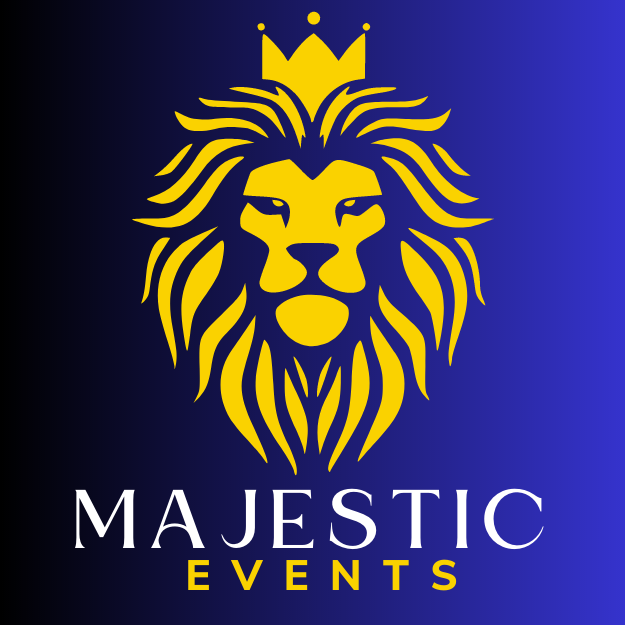
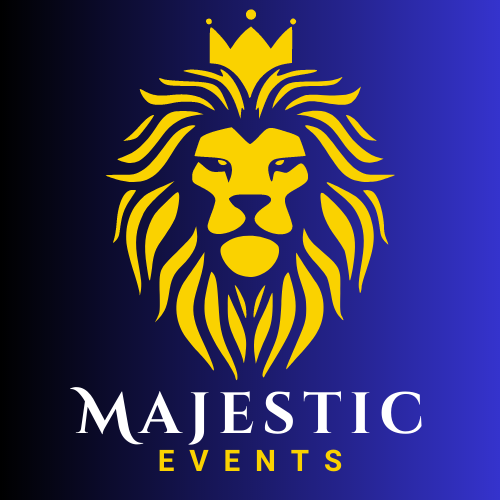
style changes

diff --git a/app.html b/app.html
@@ -17,10 +17,20 @@
     <link rel="stylesheet" href="https://cdn.jsdelivr.net/gh/devicons/devicon@v2.15.1/devicon.min.css">
 
     <!--Tab Favicon  -->
-    <link rel="shortcut icon" href="img/Willicons/logoBlu.png" type="image/x-icon" />
+    <link rel="shortcut icon" href="img/Willicons/logo golden.png" type="image/x-icon" />
+
+    <!-- Prism CSS -->
+    <link rel="stylesheet" href="/css/prism.css" />
 
     <!-- Custom fontawesome css -->
     <script src="https://kit.fontawesome.com/5db21ba9c6.js" crossorigin="anonymous"></script>
+
+    <!-- Google Fonts -->
+    <link rel="preconnect" href="https://fonts.googleapis.com">
+    <link rel="preconnect" href="https://fonts.gstatic.com" crossorigin>
+    <link
+        href="https://fonts.googleapis.com/css2?family=Cinzel+Decorative:wght@700&family=Della+Respira&family=Roboto&family=ZCOOL+XiaoWei&display=swap"
+        rel="stylesheet">
 
     <!-- Custom CSS -->
     <link rel="stylesheet" href="/css/site.css" />
@@ -31,8 +41,8 @@
         <nav class="navbar navbar-expand-lg navbar-dark">
             <div class="container-fluid">
                 <a class="navbar-brand" href="/index.html">
-                    <img src="/img/Willicons/logoBlu.png" height="42" alt="developer logo" />
-                    Majestic Events
+                    <img src="/img/Willicons/logo golden.png" height="42" alt="developer logo" />
+                    Majestic <font class="navHead">EVENTS</font>
                 </a>
                 <button class="navbar-toggler" type="button" data-bs-toggle="collapse"
                     data-bs-target="#navbarSupportedContent" aria-controls="navbarSupportedContent"
@@ -51,7 +61,8 @@
                             <a class="nav-link" href="/code.html">The Code</a>
                         </li>
                         <li class="nav-item">
-                            <a class="nav-link" target="_blank" href="https://github.com/Fjeldhammer">The Repo</a>
+                            <a class="nav-link" target="_blank"
+                                href="https://github.com/Fjeldhammer/a.MajesticEvents/a.MajesticEvents">The Repo</a>
                         </li>
                         <li class="nav-item">
                             <a class="nav-link" target="_blank" href="https://fjeldhammer.netlify.app/">About</a>
@@ -70,8 +81,7 @@
             <div class="col">
                 <!-- stats + dropdown -->
                 <div class="dropdown">
-                    <button class="btn btn-primary dropdown-toggle" type="button" 
-                    data-bs-toggle="dropdown"
+                    <button class="btn btn-primary dropdown-toggle" type="button" data-bs-toggle="dropdown"
                         aria-expanded="false">
                         Pick a Location
                     </button>
@@ -107,7 +117,7 @@
             <div class="col order-first order-md-last">
                 <!-- logo -->
                 <img src="/img/Royalion.png" class="img-fluid p-3" />
-            </div>            
+            </div>
         </div>
         <div class="mt-4">
             <button class="btn btn-primary my-3">Add Data</button>
@@ -123,7 +133,7 @@
                         </tr>
                     </thead>
                     <tbody id="events-table">
-                    <!-- events go here -->
+                        <!-- events go here -->
                     </tbody>
                 </table>
             </div>
@@ -137,11 +147,11 @@
                     &copy; 2023 William Field
                 </div>
                 <div class="col text-center">
-                    <img src="/img/Willicons/CirBluTextLong dark.png" height="35" />
+                    <img src="/img/Willicons/Cir GldnTextLong dark.png" height="35" />
                 </div>
                 <div class="col text-center text-lg-end">
                     <a href="#"><i class="socialicons bi bi-linkedin"></i></a>
-                    <a target="_blank" href="https://github.com/Fjeldhammer"><i
+                    <a target="_blank" href="https://github.com/Fjeldhammer/a.MajesticEvents"><i
                             class="socialicons bi bi-github"></i></a>
                     <a target="_blank" href="https://twitter.com/FjeldHammer"><i
                             class="socialicons bi bi-twitter"></i></a>
@@ -174,7 +184,7 @@
     <script src="https://cdn.jsdelivr.net/npm/sweetalert2@11"></script>
 
     <script src="/js/site.js"></script>
-    
+
 </body>
 
 </html>

diff --git a/index.html b/index.html
@@ -17,7 +17,20 @@
     <link rel="stylesheet" href="https://cdn.jsdelivr.net/gh/devicons/devicon@v2.15.1/devicon.min.css">
 
     <!--Tab Favicon  -->
-    <link rel="shortcut icon" href="img/Willicons/logoBlu.png" type="image/x-icon" />
+    <link rel="shortcut icon" href="/img/willicons/logo golden.png" type="image/x-icon" />
+
+    <!-- Prism CSS -->
+    <link rel="stylesheet" href="/css/prism.css" />
+
+    <!-- Custom fontawesome css -->
+    <script src="https://kit.fontawesome.com/5db21ba9c6.js" crossorigin="anonymous"></script>
+
+    <!-- Google Fonts -->
+    <link rel="preconnect" href="https://fonts.googleapis.com">
+    <link rel="preconnect" href="https://fonts.gstatic.com" crossorigin>
+    <link
+        href="https://fonts.googleapis.com/css2?family=Cinzel+Decorative:wght@700&family=Della+Respira&family=Roboto&family=ZCOOL+XiaoWei&display=swap"
+        rel="stylesheet">
 
     <!-- Custom CSS -->
     <link rel="stylesheet" href="/css/site.css" />
@@ -28,8 +41,8 @@
         <nav class="navbar navbar-expand-lg navbar-dark">
             <div class="container-fluid">
                 <a class="navbar-brand" href="/index.html">
-                    <img src="/img/Willicons/logoBlu.png" height="42" alt="developer logo" />
-                    Majestic Events
+                    <img src="/img/willicons/logo golden.png" height="42" alt="developer logo" />
+                    Majestic <font class="navHead">EVENTS</font>
                 </a>
                 <button class="navbar-toggler" type="button" data-bs-toggle="collapse"
                     data-bs-target="#navbarSupportedContent" aria-controls="navbarSupportedContent"
@@ -48,7 +61,8 @@
                             <a class="nav-link" href="/code.html">The Code</a>
                         </li>
                         <li class="nav-item">
-                            <a class="nav-link" target="_blank" href="https://github.com/Fjeldhammer">The Repo</a>
+                            <a class="nav-link" target="_blank"
+                                href="https://github.com/Fjeldhammer/a.MajesticEvents/a.MajesticEvents">The Repo</a>
                         </li>
                         <li class="nav-item">
                             <a class="nav-link" target="_blank" href="https://fjeldhammer.netlify.app/">About</a>
@@ -69,8 +83,9 @@
             </div>
             <div class="col text-center">
                 <h1 class="display-5">Majestic Events: A Coding Challenge</h1>
-                <p class="lead">Majestic Events is an event company that produces ultra high-end, lavish events. 
-                    The marketing team has requested a site that displays stats from there events. You are given an array of event data to buld a site.</p>
+                <p class="lead">Majestic Events is an event company that produces ultra high-end, lavish events.
+                    The marketing team has requested a site that displays stats from there events. You are given an
+                    array of event data to buld a site.</p>
 
                 <p class="fw-bold"> Given an array of objects for event data, display the following:</p>
                 <div class="d-flex justify-content-center">
@@ -124,11 +139,11 @@
                 </div>
                 <div class="col text-center">
 
-                    <img src="/img/Willicons/CirBluTextLong dark.png" height="35" />
+                    <img src="/img/Willicons/Cir GldnTextLong dark.png" height="35" />
                 </div>
                 <div class="col text-center text-lg-end">
                     <a href="#"><i class="socialicons bi bi-linkedin"></i></a>
-                    <a target="_blank" href="https://github.com/Fjeldhammer"><i
+                    <a target="_blank" href="https://github.com/Fjeldhammer/a.MajesticEvents"><i
                             class="socialicons bi bi-github"></i></a>
                     <a target="_blank" href="https://twitter.com/FjeldHammer"><i
                             class="socialicons bi bi-twitter"></i></a>

diff --git a/code.html b/code.html
@@ -17,13 +17,20 @@
     <link rel="stylesheet" href="https://cdn.jsdelivr.net/gh/devicons/devicon@v2.15.1/devicon.min.css">
 
     <!--Tab Favicon  -->
-    <link rel="shortcut icon" href="img/Willicons/logoBlu.png" type="image/x-icon" />
+    <link rel="shortcut icon" href="/img/willicons/logo golden.png" type="image/x-icon" />
 
     <!-- Prism CSS -->
     <link rel="stylesheet" href="/css/prism.css" />
 
     <!-- Custom fontawesome css -->
     <script src="https://kit.fontawesome.com/5db21ba9c6.js" crossorigin="anonymous"></script>
+
+    <!-- Google Fonts -->
+    <link rel="preconnect" href="https://fonts.googleapis.com">
+    <link rel="preconnect" href="https://fonts.gstatic.com" crossorigin>
+    <link
+        href="https://fonts.googleapis.com/css2?family=Cinzel+Decorative:wght@700&family=Della+Respira&family=Roboto&family=ZCOOL+XiaoWei&display=swap"
+        rel="stylesheet">
 
     <!-- Custom CSS -->
     <link rel="stylesheet" href="/css/site.css" />
@@ -35,8 +42,8 @@
         <nav class="navbar navbar-expand-lg navbar-dark">
             <div class="container-fluid">
                 <a class="navbar-brand" href="/index.html">
-                    <img src="/img/Willicons/logoBlu.png" height="42" alt="developer logo" />
-                    Majestic Events
+                    <img src="/img/willicons/logo golden.png" height="42" alt="developer logo" />
+                    Majestic <font class="navHead">EVENTS</font>
                 </a>
                 <button class="navbar-toggler" type="button" data-bs-toggle="collapse"
                     data-bs-target="#navbarSupportedContent" aria-controls="navbarSupportedContent"
@@ -55,7 +62,8 @@
                             <a class="nav-link active" aria-current="page" href="/code.html">The Code</a>
                         </li>
                         <li class="nav-item">
-                            <a class="nav-link" target="_blank" href="https://github.com/Fjeldhammer">The Repo</a>
+                            <a class="nav-link" target="_blank"
+                                href="https://github.com/Fjeldhammer/a.MajesticEvents/a.MajesticEvents">The Repo</a>
                         </li>
                         <li class="nav-item">
                             <a class="nav-link" target="_blank" href="https://fjeldhammer.netlify.app/">About</a>
@@ -92,7 +100,7 @@
                 </pre>
             </div>
             <div class="col-12 col-lg-4">
-                <p>The Code is structured in one function</p>
+                <p>The Code is structured in multiple functions</p>
                 <h5>displayMessage</h5>
                 <p>
                     Shows a SweetAlert with the value of the <code>message</code>
@@ -110,11 +118,11 @@
                     &copy; 2023 William Field
                 </div>
                 <div class="col text-center">
-                    <img src="/img/Willicons/CirBluTextLong dark.png" height="35" />
+                    <img src="/img/Willicons/Cir GldnTextLong dark.png" height="35" />
                 </div>
                 <div class="col text-center text-lg-end">
                     <a href="#"><i class="socialicons bi bi-linkedin"></i></a>
-                    <a target="_blank" href="https://github.com/Fjeldhammer"><i
+                    <a target="_blank" href="https://github.com/Fjeldhammer/a.MajesticEvents"><i
                             class="socialicons bi bi-github"></i></a>
                     <a target="_blank" href="https://twitter.com/FjeldHammer"><i
                             class="socialicons bi bi-twitter"></i></a>

diff --git a/css/site.css b/css/site.css
@@ -50,10 +50,12 @@ footer {
 /* #endregion Sticky Footer */
 
 .btn-primary {
-    --bs-btn-bg: var(--wf-theme-800);
+    --bs-btn-bg: #14134d;
     --bs-btn-border-color: var(--wf-theme-600);
-    --bs-btn-hover-bg: var(--wf-theme-700);
-    --bs-btn-hover-border-color: var(--wf-theme-700);
+    --bs-btn-hover-bg: #3533cc;
+    --bs-btn-hover-border-color: #fad200;
+    --bs-btn-hover-color: #fad200;
+    --bs-btn-color: #ffffff;
 }
 
 body {
@@ -63,7 +65,28 @@ body {
 
 .navbar,
 .footer {
-    background-color: var(--wf-theme-900);
+    background-color: #121145;
+}
+
+.navbar-brand {
+    font-family: 'Cinzel Decorative',  cursive;
+}
+
+.navbar-brand:hover {
+    color: #fad200;
+    transition: color 0.2s;
+}
+
+.navHead {
+    color: #fad200;
+    font-size: .8rem;
+    font-family: 'Roboto', sans-serif;
+}
+
+.navHead:hover {
+    color: #ffffff;
+    transition: color 0.2s;
+    
 }
 
 .footer {
@@ -78,7 +101,7 @@ body {
 }
 
 .socialicons:hover {
-    color: var(--wf-theme-core);
+    color: #fad200;
 }
 
 .app-logo {
@@ -86,7 +109,7 @@ body {
 }
 
 .checklist i {
-    color: var(--wf-theme-core);
+    color: #201f7c;
     padding-right: .5rem;
 }
 
@@ -94,3 +117,12 @@ body {
     font-size: 4rem;
     padding-left: .5rem;
 }
+
+
+
+
+
+/* font-family: 'Cinzel Decorative', cursive;
+font-family: 'Della Respira', serif;
+font-family: 'Roboto', sans-serif;
+font-family: 'ZCOOL XiaoWei', sans-serif; */
